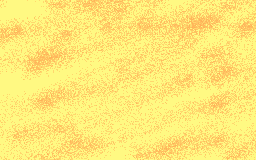
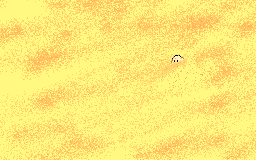
character select

Changed region(s): [[0.5625, 0.2812, 0.8438, 0.5938], [0.875, 0.3125, 0.9062, 0.3438]]

diff --git a/script.js b/script.js
@@ -92,6 +92,7 @@ let doorUnlocked = false;
 let actionMenu = false;
 
 // Player states
+let playerMale = true;
 let goingLeft = false;
 let passedOut = false;
 
@@ -119,7 +120,7 @@ function updateView() {
         <div class="topBattleDiv">
         </div>
         <div class="middleBattleDiv">
-            <img class="playerInCombat" src="imgs/Character_Male_inCombat.png">
+            <img class="playerInCombat" src=${playerMale ? "imgs/Character_Male_inCombat.png" : "imgs/Character_Female_inCombat.png"}>
             <img class="enemyInCombat" src="imgs/Enemy_sillyBandit_inCombat.png">
         </div>
         <div class="bottomBattleDiv">
@@ -166,7 +167,7 @@ function updateView() {
         <div class="LeftRightDiv">
             <button class="leftButton" ${canGoLeft ? 'onclick="moveCharacter(\'west\')"' : 'disabled'} style="${canGoLeft ? '' : 'pointer-events: none; opacity: 0;'}">🡸</button>
             <div class="playerContainer">
-                <img class="player" src="${passedOut ? "imgs/Character_Sleep.png" : playerStates()}">
+                <img class="player" src="${passedOut ? (playerMale ? "imgs/Character_Sleep.png" : "imgs/Character_Sleep_Female.png") : playerStates()}">
                 ${areaHasWorldItem ? /*HTML*/`<img class="worldItem" src="${worldItem}">` : ``}
                 ${inShopWest || inShopEast ? /*HTML*/`<img class="worldItem" src="imgs/world_items/NPC.png">` : ``}
                 ${returnedGoat1 && inMainCampsite ? /*HTML*/`<img class="worldItem" src="imgs/world_items/Goat1_WorldItem.png">` : ``}
@@ -343,14 +344,14 @@ function updateView() {
             <button class="upButton" ${canGoUp ? 'onclick="moveCharacter(\'north\')"' : 'disabled, style="opacity: 0"'}>🡹</button>
             </div>
             <div class="inputDiv">
-            <input id="nameInput" type="text" class="nameInput" placeholder="[Enter name]">
+            <input id="nameInput" type="text" class="nameInput" placeholder="[Enter name]" max="12">
             <button class="nameButton" onclick="setName()">Set name</button>
             </div>
            
         <div class="LeftRightDiv">
-            <button class="leftButton" onclick="goingLeft = true, updateView();">🡸</button>
-            <img class="characterSelect" src=${goingLeft ? "imgs/Character_L.png" : "imgs/Character_R.png"}>
-            <button class="rightButton" onclick="goingLeft = false, updateView();">🡺</button>
+            <button class="leftButton" onclick="goingLeft = !goingLeft, playerMale = !playerMale, updateView();">🡸</button>
+            <img class="characterSelect" src=${goingLeft ? "imgs/Character_Female_R.png" : "imgs/Character_R.png"}>
+            <button class="rightButton" onclick="goingLeft = !goingLeft, playerMale = !playerMale, updateView();">🡺</button>
         </div>
         <div class="DownDiv">
             <button class="classButtons" 
@@ -884,14 +885,23 @@ function clearTooltip() {
 
 
 function playerStates() {
-    if (goingLeft == true) {
+    if (goingLeft) {
 
-        return "imgs/Character_L.png"
-
+        if(playerMale){
+            return "imgs/Character_L.png"
+        }
+        else if(!playerMale){
+            return "imgs/Character_Female_L.png"
+        }
     }
     else {
 
-        return "imgs/Character_R.png"
+        if(playerMale){
+            return "imgs/Character_R.png"
+        }
+        else if(!playerMale){
+            return "imgs/Character_Female_R.png"
+        }
 
     }
     // return "imgs/worlditemstest.png"
@@ -2019,6 +2029,10 @@ function statusBars(){
     if(playerEnergy <= (0.25 * playerMaxEnergy)){
         energyBarColor = 'red'
     }
+}
+
+function changeCharacter(){
+
 }
 
 
